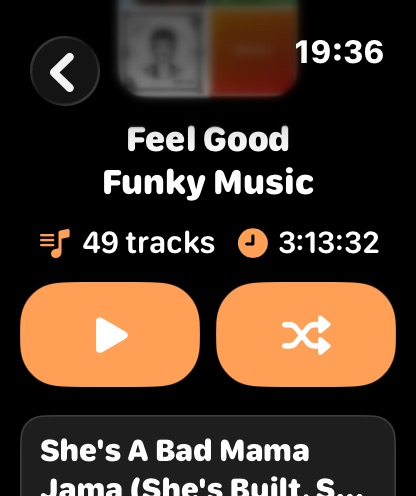
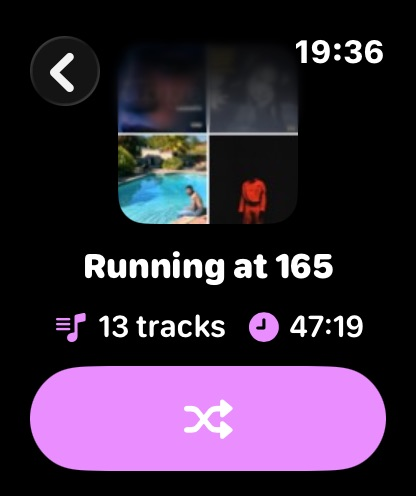
Sync landing page from Run2Beat@11457ea
Source: andropandro/Run2Beat (main)
Commit: 11457ea5edadf67d587b862d6d9503a8452ca860

diff --git a/index.html b/index.html
@@ -249,13 +249,24 @@
 
         <section class="feature">
             <div class="feature__visual">
-                <div class="phone-frame phone-frame--watch" data-screenshot="watch">
-                    <img src="assets/screenshots/watch.jpg" alt="" onerror="this.style.display='none'" />
-                    <div class="phone-frame__placeholder">
-                        <div class="phone-frame__dot"></div>
-                        <strong>Apple Watch</strong>
-                        <span>Screenshot placeholder</span>
-                        <small>watch.jpg</small>
+                <div class="watch-pair">
+                    <div class="phone-frame phone-frame--watch" data-screenshot="watch">
+                        <img src="assets/screenshots/watch.jpg" alt="" onerror="this.style.display='none'" />
+                        <div class="phone-frame__placeholder">
+                            <div class="phone-frame__dot"></div>
+                            <strong>Apple Watch</strong>
+                            <span>Screenshot placeholder</span>
+                            <small>watch.jpg</small>
+                        </div>
+                    </div>
+                    <div class="phone-frame phone-frame--watch" data-screenshot="watch-2">
+                        <img src="assets/screenshots/watch-2.jpg" alt="" onerror="this.style.display='none'" />
+                        <div class="phone-frame__placeholder">
+                            <div class="phone-frame__dot"></div>
+                            <strong>Apple Watch</strong>
+                            <span>Screenshot placeholder</span>
+                            <small>watch-2.jpg</small>
+                        </div>
                     </div>
                 </div>
             </div>

diff --git a/styles.css b/styles.css
@@ -631,6 +631,18 @@ a { color: inherit; text-decoration: none; }
 .phone-frame--watch::before { top: 32%; height: 12%; left: auto; right: -2px; background: linear-gradient(-90deg, #2a2c2a, transparent); }
 .phone-frame--watch::after  { display: none; }
 
+/* Two watch frames side by side. Inherits the same clamp() width on
+   each child frame, so the pair scales together with the viewport.
+   The gap is tight on purpose - the watches read as a paired before/
+   after story rather than two unrelated screenshots. */
+.watch-pair {
+    display: flex;
+    align-items: center;
+    justify-content: center;
+    gap: clamp(10px, 1.4vw, 22px);
+    flex-wrap: nowrap;
+}
+
 /* ---------- TRIO CARDS (sound quality) ---------- */
 
 .trio {

diff --git a/assets/screenshots/README.md b/assets/screenshots/README.md
@@ -14,7 +14,8 @@ frame uses `object-fit: cover`.
 | `bpm-analysis.jpg`        | Know the tempo           | A track with the "uncertain tempo" flag, or the BPM analysis info-sheet.            |
 | `bpm-lists.jpg`           | Two ways to play / BPM   | A BPM list with per-track target tempos and the dynamic playlist UI.                |
 | `standard-playlists.jpg`  | Two ways to play / Std   | A regular playlist screen with imported music, no BPM column emphasised.            |
-| `watch.jpg`               | Take it anywhere / Watch | Apple Watch playback screen (Watch simulator screenshot is fine).                   |
+| `watch.jpg`               | Take it anywhere / Watch | Apple Watch playback screen (left of the pair).                                     |
+| `watch-2.jpg`             | Take it anywhere / Watch | Second Apple Watch screen shown side by side with `watch.jpg`.                      |
 | `airdrop.jpg`             | Take it anywhere / Share | iOS share sheet with AirDrop highlighted, or the in-app share confirmation.        |
 
 ## Tips for great-looking screenshots
